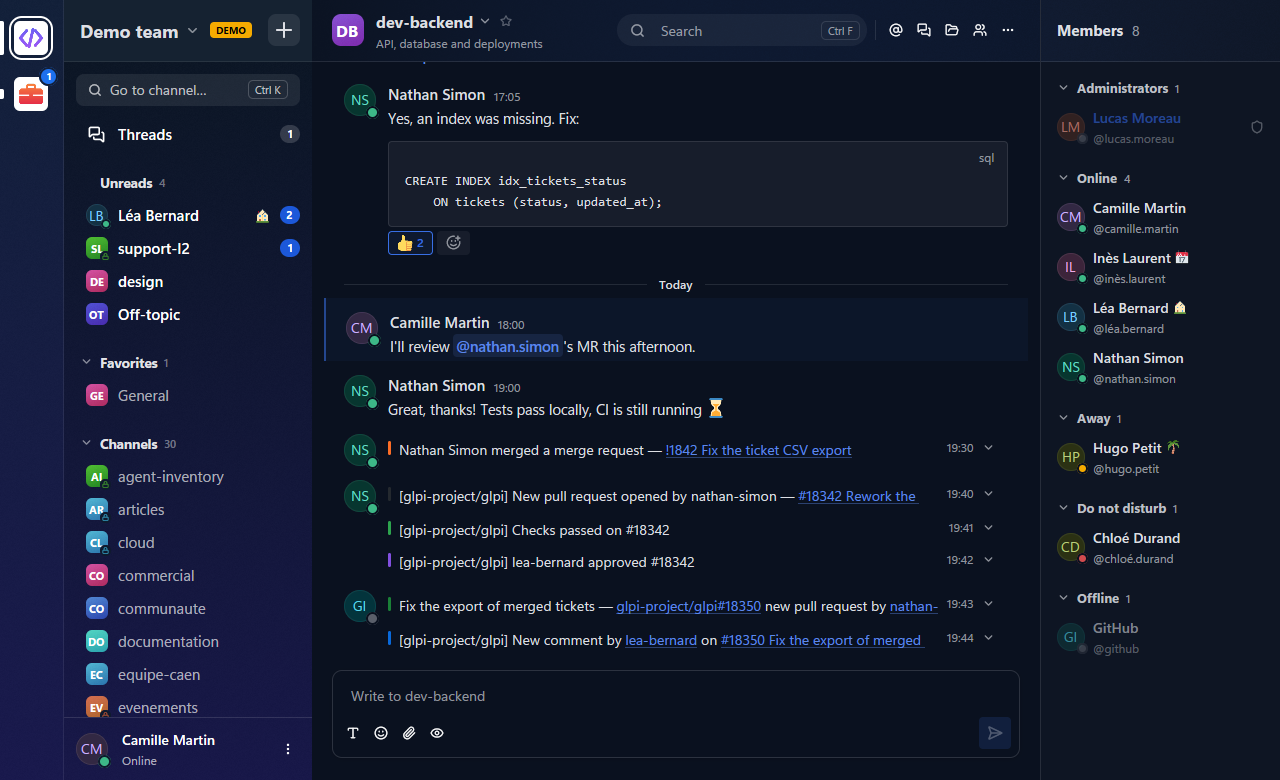
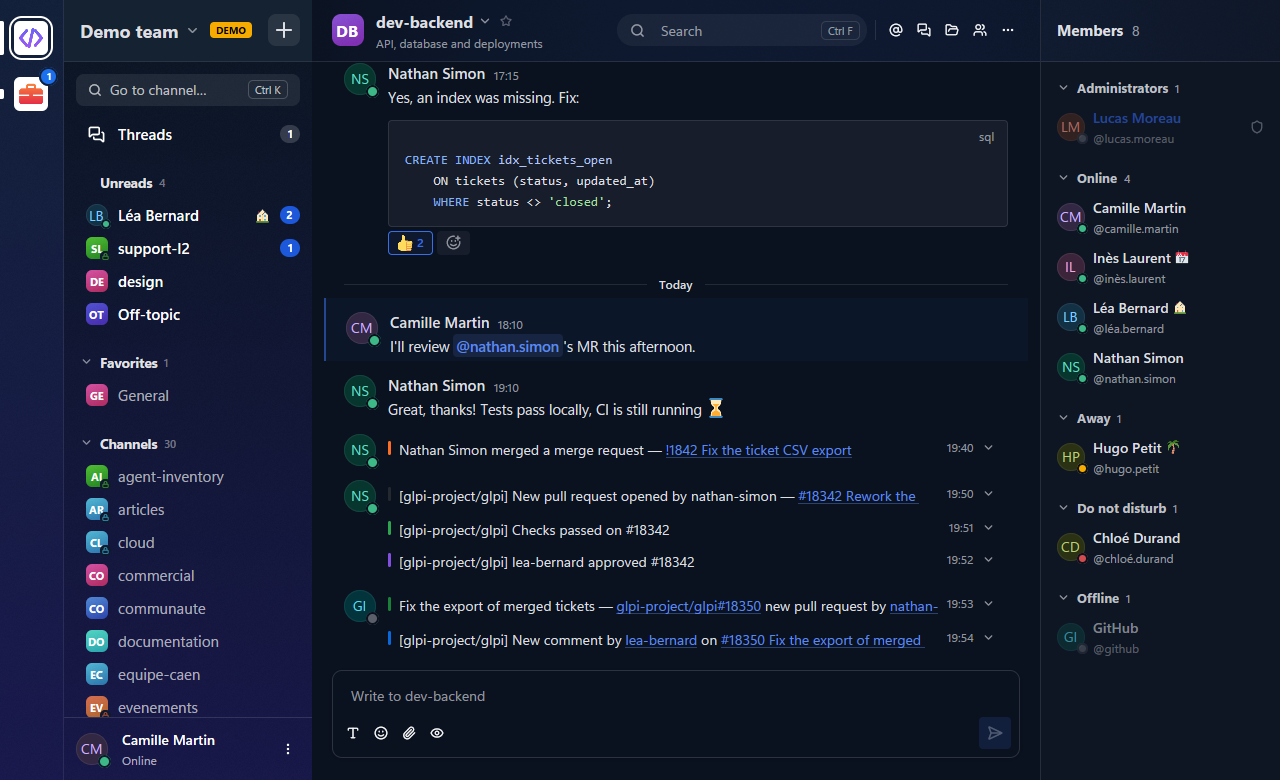
Syntax highlighting in code blocks
Enable gpui-kit's syntect highlighter (about 200 languages, colors from
the app theme) and give the demo SQL snippet a WHERE clause so strings
show up too. Refresh the README screenshot.

Changed region(s): [[0.25, 0.0615, 0.5, 0.2769], [0.75, 0.1538, 0.7812, 0.1846]]

diff --git a/src/demo.rs b/src/demo.rs
@@ -1418,7 +1418,9 @@ mod tests {
             ("demo.posts.general_docs", &["#release-12", "#documentation", "](https://example.org/notes)"]),
             (
                 "demo.posts.backend_index",
-                &["```sql\nCREATE INDEX idx_tickets_status\n    ON tickets (status, updated_at);\n```"],
+                &[
+                    "```sql\nCREATE INDEX idx_tickets_open\n    ON tickets (status, updated_at)\n    WHERE status <> 'closed';\n```",
+                ],
             ),
             ("demo.posts.support_escalation", &["**#4821**", "!4821"]),
         ];

diff --git a/CHANGELOG.md b/CHANGELOG.md
@@ -10,6 +10,11 @@ puis pousser le tag `vx.y.z`. La release GitHub reprend cette section.
 
 ## [Non publié]
 
+### Ajouté
+
+- Coloration syntaxique des blocs de code (environ 200 langages), aux
+  couleurs du thème clair ou sombre.
+
 ## [0.2.0] - 2026-11-22
 
 ### Modifié
